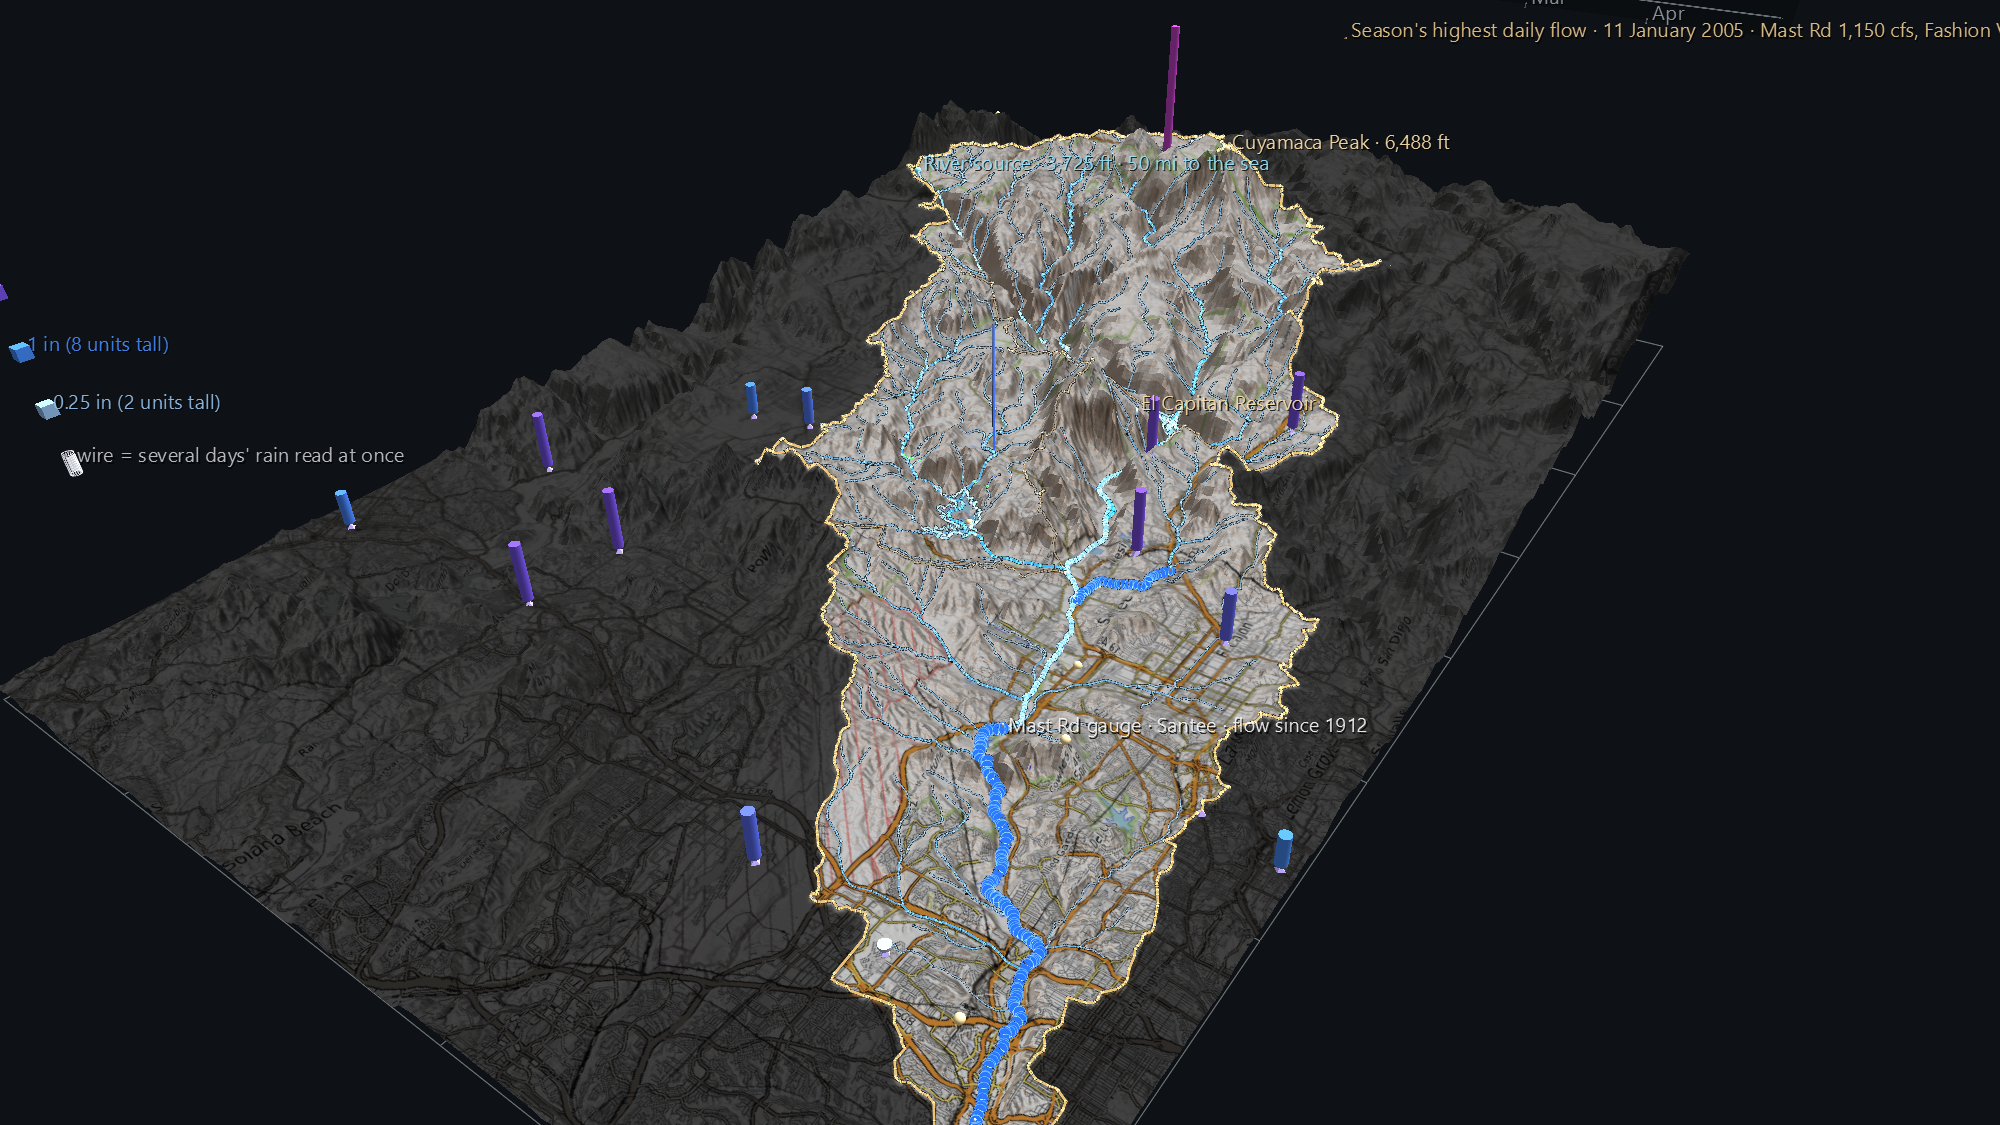
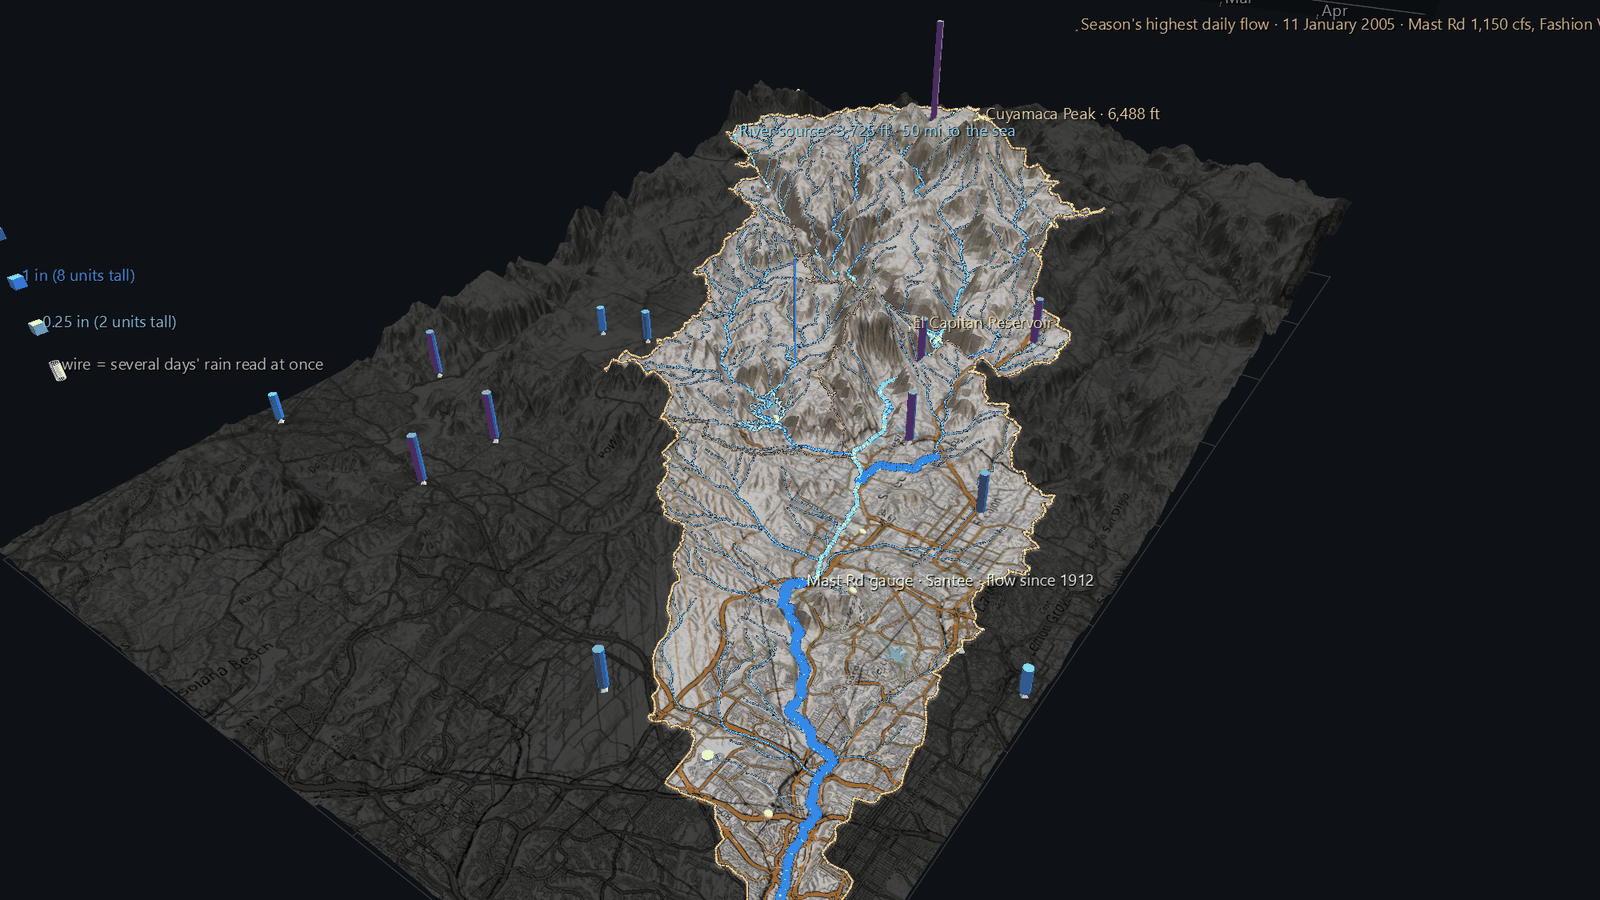
Gallery: The Storm Winter, 2004-05
A gallery page under "San Diego River Watershed Atlas", after The Pulse. Hero
shot captured through the real MainWindow, close on the rain field (the
panel gets its own image on the page rather than being squeezed into the wide
gallery frame), plus the panel and 29 December 2004, the season's heaviest
single reading. Per-example zip cut (8 MB) and its contents checked.

Every figure on the page is from the data: the water-year ranks (Lakeside
second of 64, Mast Rd mean flow 11th of 110), the dry first winter after the
Cedar Fire (9.7 in), the peak days, and the field averages, recomputed over
the 18 gauges the scene actually uses rather than all 19 in the window.

The example's rain_field.png is downscaled from the 2000 px grab to 1600 px
and palettised: 2.2 MB -> 587 KB, the size of the other gallery images.

Changelog: added to 2026-09-13. Strict mkdocs build passes.

diff --git a/tools/capture_example_shots.py b/tools/capture_example_shots.py
@@ -109,6 +109,9 @@ MANIFEST = [
     # Static is January 1993, the resting pose the generator authors: the
     # highest combined flow among months when every gauge reported.
     ("sd-river-pulse", EX / "San_Diego_River_Pulse_Example", None),
+    # Static is 21 February 2005, the resting pose the generator authors: wet
+    # across the rain field and high on the river at once.
+    ("sd-river-storm-2005", EX / "San_Diego_River_Storm_Example", None),
 ]
 
 
@@ -185,6 +188,11 @@ CAMERA = {
     # two-strip panel (and its month/year readout) all fit.
     "sd-river-pulse": {"target": (70, -25, 120), "distance": 640,
                        "azimuth": 194, "elevation": 14},
+    # Close on the map, not the panel: this scene's story is the rain field
+    # standing over the county, and the panel reads better on its own page
+    # image than squeezed into a wide gallery frame.
+    "sd-river-storm-2005": {"target": (-40, -30, 10), "distance": 330,
+                            "azimuth": 215, "elevation": 35},
 }
 
 

diff --git a/glyphviz-docs/docs/examples/sd-river-storm-2005.md b/glyphviz-docs/docs/examples/sd-river-storm-2005.md
@@ -1,0 +1,75 @@
+# The Storm Winter, 2004–05
+
+[The Pulse](sd-river-pulse.md) shows the San Diego River a month at a time over a century. This scene zooms in on a single wet season and plays it **day by day**, from 1 October 2004 to 30 April 2005. Rain falls across the county on 18 rain gauges, and the river rises at its three stream gauges in answer.
+
+It's part of the **San Diego River Watershed Atlas**, built on [The Watershed, Source to Sea](sd-river-watershed.md), which it rebuilds unchanged underneath.
+
+![21 February 2005: rain columns standing across the county and the lower river running wide and blue](../assets/examples/sd-river-storm-2005.png)
+
+**Try it:** download this example below (or [the full examples set](../getting-started/installation.md#example-scenes)), then open `San_Diego_River_Storm_Example/sd_river_storm_2005_gv_node.csv`, or drag its folder onto the window. It's a large scene (about 70,000 nodes) and takes a few seconds to load. Press **Space** to play, and **set the FPS slider to 4–8**: at the default 30 frames a second the whole season passes in 7 seconds.
+
+[:material-download: Download this example (8 MB)](https://iluvdata.org/glyphviz/zips/San_Diego_River_Storm_Example.zip){ .md-button }
+
+## Why this winter
+
+- **It was one of the wettest winters on record.** Lakeside, in the middle of the watershed, recorded 29.3 inches in water year 2005. That's the second-highest of its 64 complete years; only 1978 had more, with 29.5. The river's mean flow at Mast Road that year ranks 11th of 110.
+- **It was the burned hillsides' first real test.** The Cedar Fire burned across the upper watershed in October 2003, and the winter that followed was dry, with only 9.7 inches at Lakeside. So this was the first big rain to fall on the burn scar. Whether the river answered it differently is a question for a later part of the Atlas. This scene shows what happened.
+
+## What moves
+
+**The river.** The ribbons over the stretches of river each gauge measures work as they do in The Pulse, but for each day:
+
+- **Width** is the day's average flow, on a log scale.
+- **Colour** compares the day with every recorded day in the same month of that gauge's whole record: ochre for the driest, pale for typical, blue for the wettest.
+
+**The rain.** A column stands over each daily rain gauge in the map: 18 of them, 7 inside the watershed. The ones outside stay in the scene, because a storm doesn't stop at a watershed line. **Height** is the day's rain, and **colour** is the amount, from pale for a trace, through blue at an inch, to magenta at four inches or more.
+
+**The panel** beyond the east edge shows the whole season at once, and the pattern is plain: every burst of rain in the upper strip is followed by a spike in the river below.
+
+- The **upper strip** is daily rain at Cuyamaca, in the mountains, and Lakeside, in the valley.
+- The **lower strip** is daily flow at all three gauges.
+
+A cursor marks the day, and the day and month are shown beside it.
+
+![The panel: daily rain at Cuyamaca and Lakeside above, daily flow at three gauges below](../assets/examples/sd-river-storm-2005-panel.png)
+
+## What the season shows
+
+- **The river's biggest day was 11 January 2005.** Mast Road averaged 1,150 cubic feet per second over the day, and Fashion Valley 2,130.
+- **The heaviest single reading was 5.63 inches at Cuyamaca on 29 December 2004.** That day, the gauges that reported averaged 1.71 inches.
+- The scene opens on **21 February 2005**, the day that was both wet across the county and high on the river, so every layer has something to show. 11 January had the bigger river, but by then most of the rain had already fallen.
+
+![29 December 2004: Cuyamaca's 5.63-inch day stands out over a county of violet columns](../assets/examples/sd-river-storm-2005-rain-field.png)
+
+## Reading the rain honestly
+
+- **Most of these gauges are read by hand, once a day.** A volunteer observer empties the gauge at their own chosen time, often in the morning. So a day's column can hold rain that fell the evening before, and two gauges a few miles apart can put the same storm on neighbouring days. The airport stations are automated.
+- **Missing days are hidden, not filled in.**
+- **Several days read at once are drawn as a wire column.** When an observer couldn't read the gauge for a few days, the record holds one total for all of them. The scene shows that total as a wire column on the day it was read, and hides the days it covers. Spreading it evenly would invent a daily pattern nobody measured.
+- One gauge in the map, Santee Fire Department, reported on only 37 of the 212 days, so it's left out.
+
+## Structure
+
+```text
+The Watershed, Source to Sea        rebuilt unchanged
+Flow ribbon ×3 (Plot)               width, hide and colour bound, as in The Pulse
+Rain column ×18                     World Grid children; height, position, colour,
+                                    hide AND geometry bound (solid or wire)
+Rain gauge marker ×15               octahedra for the gauges The Watershed didn't already mark
+Panel                               daily flow lines, daily rain bars, peak days, cursor
+Readout                             7 month labels and 31 day labels, one of each shown per frame
+```
+
+The scene is 70,799 nodes, with 180 animated tracks over 212 frames. Playback takes about 8 ms a frame.
+
+## Data
+
+All of it is public and needs no API key. It's cached in the Watershed example's shared `data/` folder.
+
+| What | Source |
+|---|---|
+| Daily flow | USGS National Water Information System daily values, with each gauge's whole daily record cached for the colour ranking |
+| Daily rainfall | NOAA GHCN-Daily, via the Regional Climate Centers' ACIS service, with its missing, trace and multi-day flags kept |
+| Terrain, rivers, places | see [The Watershed, Source to Sea](sd-river-watershed.md#data) |
+
+The generator is `build_storm_scene.py`. It reuses the Watershed and Pulse builders, then loads its own output back through GlyphViz's loaders and Channels engine and checks column heights, hidden days, solid versus wire, the cursor and the readout against the source data.

diff --git a/glyphviz-docs/docs/changelog.md b/glyphviz-docs/docs/changelog.md
@@ -10,6 +10,12 @@ GlyphViz doesn't cut numbered releases yet — development moves in daily commit
     - **A panel** beside the watershed shows every water year since 1913, plus a scrolling ten-year monthly window with a running date.
 
     The record shows the dams calming the river, a flow record missing the wettest month on record, and a river that hasn't run dry since September 1968. Missing data is drawn as missing, never bridged or estimated.
+- Added **[The Storm Winter, 2004–05](examples/sd-river-storm-2005.md)**, which plays one of the wettest winters on record day by day. It was also the first big rain on the Cedar Fire's burn scar.
+    - **The rain field** is 18 rain gauges across the county, each drawing the day's rain as a column.
+    - **The river's ribbons** rise at its three gauges in answer.
+    - **The panel** shows the whole season, every rain burst followed by a spike in the river.
+
+    Rain totals that an observer read after several unattended days are drawn as wire columns, not spread across days nobody measured.
 
 ## 2026-09-12
 

diff --git a/glyphviz-docs/docs/examples/index.md b/glyphviz-docs/docs/examples/index.md
@@ -39,6 +39,7 @@ One watershed, built up in phases: its terrain and river network first, then the
 
 - **[The Watershed, Source to Sea](sd-river-watershed.md)** — 433 square miles of real relief, the whole river network by stream order, gauges and rain stations
 - **[The Pulse: A Century of the San Diego River](sd-river-pulse.md)** — river flow and mountain rain, month by month since 1912, with the whole century on a panel beside it
+- **[The Storm Winter, 2004–05](sd-river-storm-2005.md)** — one of the wettest winters on record, day by day: 18 rain gauges across the county and the river answering each storm
 - **[Santa Ana Wind, December 2012](santa-ana-wind.md)** — 130 weather stations every ten minutes for a month, as the wind swings offshore and the county dries out
 
 ## Audio & music
